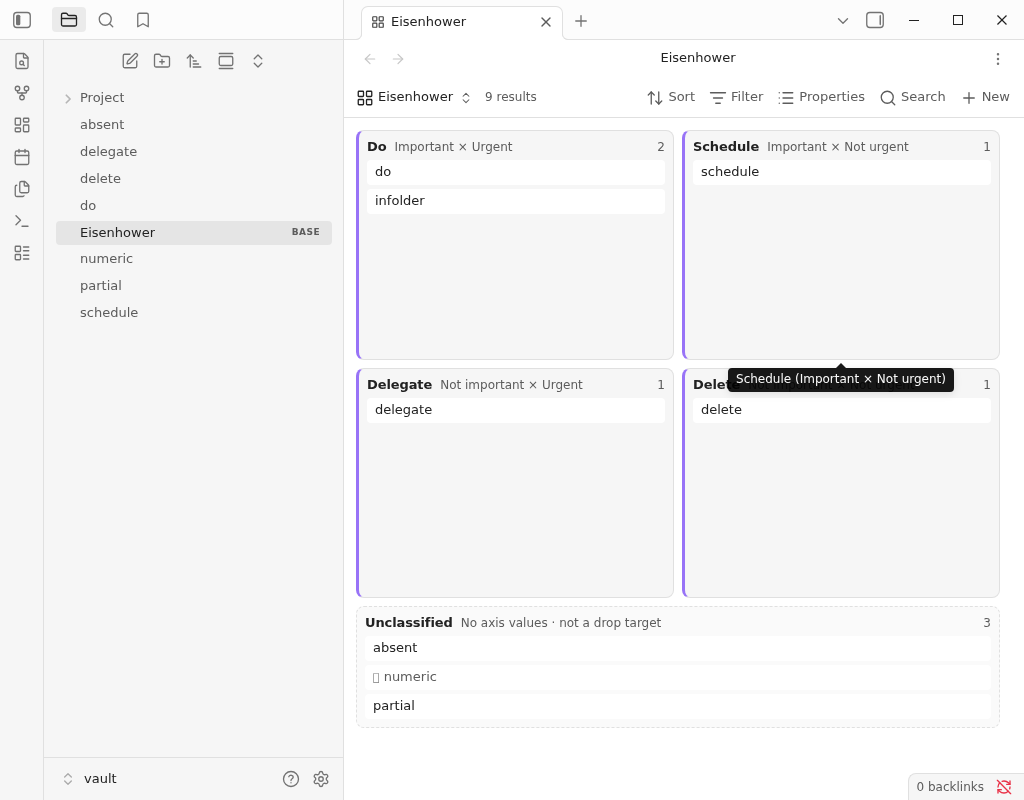
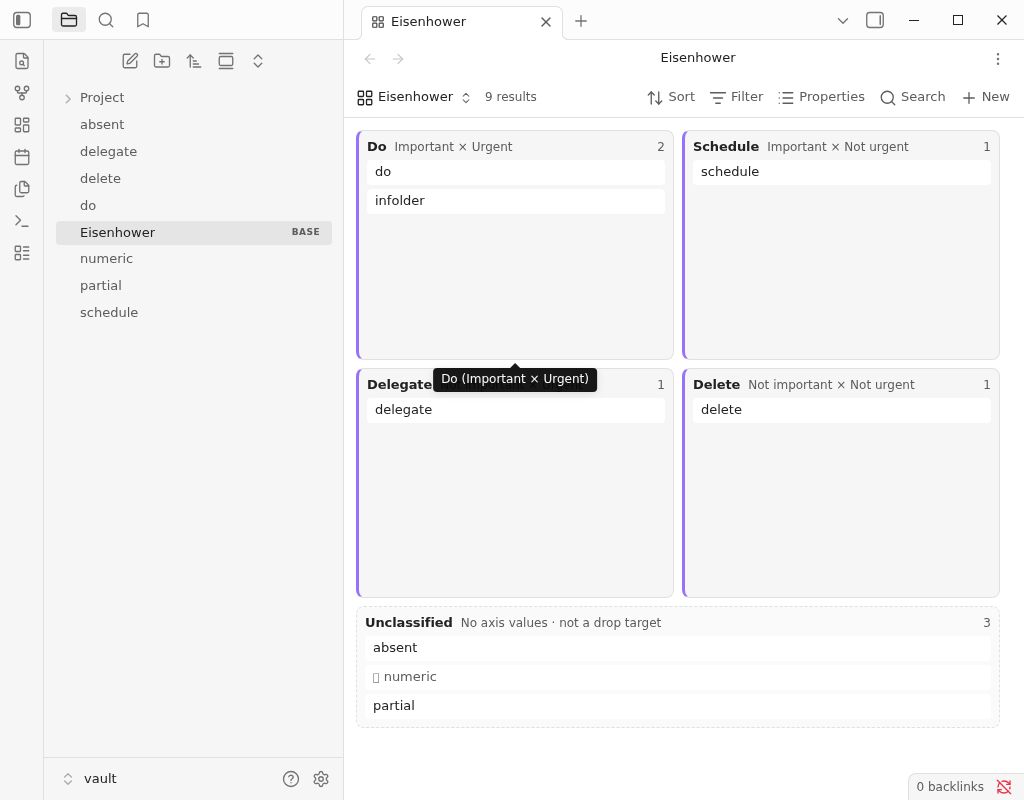
test(e2e): PR レビュー対応 — 偽陽性・ポート衝突・検証記録の是正（19/19 PASS）
PR #48 の多観点レビュー（敵対的検証つき・4観点）で確定した 14 指摘に対応。ハーネスの
PASS の信頼性・再実行安全性・記録の正直さを是正した。プロダクション src は不変（scripts/e2e・
docs のみ）。改善後ハーネスを実機 Obsidian 1.12.7 で再実行し 19/19 PASS を確認。

should:
- run-cdp.js: 「再描画後 Do に居る」チェックが楽観オーバーレイだけで満たされ往復後半（サーバ
  再分類）を検証していなかった。base を開き直した楽観保留なしの新規描画で schedule が Do に居る
  ことを独立にアサート（getValue→classifyQuadrant の往復後半を証明）。
- setup-and-run.sh: CDP ポート衝突を検出せず、9222 を掴む別/残存 Obsidian へ誤接続し**ユーザーの
  実 Vault を操作しうる**危険があった。起動前に占有チェックして中止するガードを追加。
- setup-and-run.sh: set -e 下で node 失敗時に RC 捕捉・案内 echo が死コードだったのを if で捕捉。

nit:
- undo チェックの tautology 解消（移動後=urgent:true の前提＋コマンド成否＋true→false 遷移を assert）。
- 固定 sleep → 条件ポーリング（until）で非決定的失敗を回避。
- FATAL 時に 99-fatal.png を撮影＋browser.close。
- DISPLAY/WAYLAND 未設定の事前 fail・$WORK 非削除の明記。
- README の出力一覧を実装へ更新・移行メモを「完了」へ。
- 検証記録: 対象コミット（be20e6f＋prod=develop）明記、B2 を〜へ（literal 未検証）、C1 の述語表現
  是正＋明示 assert、サマリに部分列と件数整合、A4 にサーバ再分類の独立検証を追記。

Test: 実機 E2E 19/19 PASS（scripts/e2e/setup-and-run.sh）。npm typecheck/lint 緑。
Design: none

Changed region(s): [[0.6875, 0.4375, 0.9375, 0.5], [0.4062, 0.4375, 0.5938, 0.5]]

diff --git a/scripts/e2e/run-cdp.js b/scripts/e2e/run-cdp.js
@@ -3,6 +3,8 @@
 //  (1) セレクタを本実装（.eisenhower-matrix / .eisenhower-quadrant / .eisenhower-note-card）へ
 //  (2) 移動操作をボタン click → dnd-kit の**実ポインタドラッグ**（PopoutPointerSensor 経由）へ
 //  (3) onDataUpdated 自動再発火を plugin.liveViews のインスタンス計測で確認（プラグインは console 出力しない）
+//  (4) 書き戻し後の**サーバ由来 re-classification**を、base を開き直して楽観オーバーレイ無しの新規描画で検証
+//      （楽観移動だけで満たされる偽陽性を避ける・PR#48 レビュー指摘）
 const { chromium } = require("playwright");
 const fs = require("fs");
 const path = require("path");
@@ -11,7 +13,10 @@ const CDP = process.env.CDP || "http://127.0.0.1:9222";
 const VAULT = process.env.VAULT;
 const OUT = process.env.OUT || ".";
 const logs = [];
-const result = { checks: [], dom: null, writeBack: null, undo: null };
+const result = { checks: [], dom: null, writeBack: null, reclassify: null, undo: null };
+let page = null;
+let browser = null;
+
 const rec = (tag, ...a) => {
   const line = `[${tag}] ${a.map((x) => (typeof x === "string" ? x : JSON.stringify(x))).join(" ")}`;
   logs.push(line);
@@ -26,6 +31,17 @@ const dump = () => {
   fs.writeFileSync(path.join(OUT, "result.json"), JSON.stringify(result, null, 2) + "\n");
 };
 const sleep = (ms) => new Promise((r) => setTimeout(r, ms));
+// 条件が真になるまで短間隔ポーリング（固定 sleep の非決定的失敗を避ける）。timeout で最後の値を返す。
+const until = async (fn, { timeout = 8000, interval = 200, label = "" } = {}) => {
+  const t0 = Date.now();
+  for (;;) {
+    let v;
+    try { v = await fn(); } catch (_) { v = undefined; }
+    if (v) return v;
+    if (Date.now() - t0 > timeout) { rec("warn", `until timeout: ${label}`); return v; }
+    await sleep(interval);
+  }
+};
 // frontmatter（"---" 間）を読み取り「key: value」を平坦化して返す（書き戻し検証用）。
 const readFm = (f) => {
   try {
@@ -36,20 +52,44 @@ const readFm = (f) => {
     return `READ_ERR:${e}`;
   }
 };
+const snap = async (name) => {
+  try { await page.screenshot({ path: path.join(OUT, name) }); rec("shot", name); }
+  catch (e) { rec("warn", "screenshot " + name, String(e)); }
+};
+// Do 象限のカード名一覧を DOM から読む。
+const readDoCards = () =>
+  page.evaluate(() => {
+    const doCell = [...document.querySelectorAll(".eisenhower-quadrant")]
+      .find((c) => c.querySelector(".eisenhower-quadrant__title")?.textContent === "Do");
+    return [...(doCell?.querySelectorAll(".eisenhower-note-card") || [])]
+      .map((n) => n.textContent.replace("🔒", "").trim());
+  });
+// base を開き直して（楽観保留の無い）新規描画にし、Do 象限のカードを読む。
+const reopenBaseAndReadDo = async () => {
+  await page.evaluate(() => {
+    for (const l of window.app.workspace.getLeavesOfType?.("bases") || []) l.detach();
+  });
+  await sleep(300);
+  await page.evaluate(async () => {
+    const f = window.app.vault.getAbstractFileByPath("Eisenhower.base");
+    const leaf = window.app.workspace.getLeaf(true);
+    await leaf.openFile(f);
+  });
+  await page.waitForSelector(".eisenhower-matrix__grid", { timeout: 15000 }).catch(() => {});
+  await sleep(400);
+  return readDoCards();
+};
 
 (async () => {
-  const browser = await chromium.connectOverCDP(CDP, { timeout: 30000 });
+  browser = await chromium.connectOverCDP(CDP, { timeout: 30000 });
   rec("harness", "connected over CDP");
   const ctx = browser.contexts()[0];
 
   // window.app.workspace を持つレンダラページ（Obsidian 本体）を探す。
-  let page = null;
   for (let attempt = 0; attempt < 20 && !page; attempt++) {
     for (const p of ctx.pages()) {
       let ok = false;
-      try {
-        ok = await p.evaluate(() => !!(window.app && window.app.workspace));
-      } catch (_) {}
+      try { ok = await p.evaluate(() => !!(window.app && window.app.workspace)); } catch (_) {}
       if (ok) { page = p; break; }
     }
     if (!page) await sleep(1000);
@@ -81,14 +121,12 @@ const readFm = (f) => {
     const steps = {};
     try { if (p.setEnable) { await p.setEnable(true); steps.setEnable = true; } } catch (e) { steps.setEnableErr = String(e); }
     try { steps.enablePlugin = await p.enablePlugin("eisenhower-bases-view").then(() => true).catch((e) => String(e)); } catch (e) { steps.enableErr = String(e); }
-    // 信頼ダイアログが残っていれば「信頼」ボタンを押す（実ユーザー操作の代替）
     const btn = [...document.querySelectorAll(".modal button, .modal .mod-cta")]
       .find((b) => /trust|信頼|enable/i.test(b.textContent || ""));
     if (btn) { btn.click(); steps.trustClicked = btn.textContent; }
     return steps;
   });
   rec("enable", JSON.stringify(enableRes));
-  // プラグインがロードされるまで待つ
   await page.waitForFunction(
     () => !!window.app.plugins.plugins["eisenhower-bases-view"],
     { timeout: 15000 },
@@ -115,7 +153,6 @@ const readFm = (f) => {
   let rendered = false;
   try {
     await page.waitForSelector(".eisenhower-matrix", { timeout: 25000 });
-    // loading シェルではなく ready（グリッド）になるまで待つ
     await page.waitForSelector(".eisenhower-matrix__grid", { timeout: 15000 });
     rendered = true;
   } catch (e) {
@@ -131,7 +168,7 @@ const readFm = (f) => {
 
   // 4) 配置スナップショット（象限別カード + locked + 件数）
   const dom = await page.evaluate(() => {
-    const cells = [...document.querySelectorAll(".eisenhower-quadrant")].map((c) => ({
+    return [...document.querySelectorAll(".eisenhower-quadrant")].map((c) => ({
       title: c.querySelector(".eisenhower-quadrant__title")?.textContent ?? null,
       count: c.querySelector(".eisenhower-quadrant__count")?.textContent ?? null,
       unclassified: c.classList.contains("eisenhower-quadrant--unclassified"),
@@ -141,7 +178,6 @@ const readFm = (f) => {
         draggable: n.getAttribute("aria-roledescription") === "draggable",
       })),
     }));
-    return cells;
   });
   result.dom = dom;
   rec("dom", JSON.stringify(dom));
@@ -149,7 +185,6 @@ const readFm = (f) => {
   const titles = (t) => byTitle(t).cards.map((x) => x.title).sort();
   const unc = dom.find((c) => c.unclassified) || { cards: [] };
   const uncTitles = unc.cards.map((x) => x.title).sort();
-  // do.md（ルート）と Project/infolder.md（フォルダ配下）はどちらも urgent:true/important:true → Do
   check("Do 象限 = [do, infolder]（フォルダ配下ノートも正配置）", JSON.stringify(titles("Do")) === JSON.stringify(["do", "infolder"]), titles("Do"));
   check("Schedule 象限 = [schedule]", JSON.stringify(titles("Schedule")) === JSON.stringify(["schedule"]), titles("Schedule"));
   check("Delegate 象限 = [delegate]", JSON.stringify(titles("Delegate")) === JSON.stringify(["delegate"]), titles("Delegate"));
@@ -159,10 +194,13 @@ const readFm = (f) => {
   check("非 boolean 軸カード numeric は locked（ドラッグ不可）", numeric && numeric.locked && !numeric.draggable, numeric);
   const absent = unc.cards.find((x) => x.title === "absent");
   check("軸欠損カード absent は draggable（locked でない）", absent && !absent.locked && absent.draggable, absent);
+  // .base 自己エントリ（Eisenhower）がカード化されていないこと（非 md 除外の証跡＝dom 由来）
+  const allTitles = dom.flatMap((c) => c.cards.map((x) => x.title));
+  check("`.base` 自己エントリ（Eisenhower）がカード化されない（非 md 除外）", !allTitles.includes("Eisenhower"), allTitles);
   await snap("01-initial.png");
 
   // 5) onDataUpdated 自動再発火の計測をインストルメント（plugin.liveViews の各ビュー）
-  await page.evaluate(() => {
+  const wrapped = await page.evaluate(() => {
     window.__eisenDU = 0;
     const p = window.app.plugins.plugins["eisenhower-bases-view"];
     const views = p && p.liveViews ? [...p.liveViews] : [];
@@ -174,6 +212,8 @@ const readFm = (f) => {
     }
     return views.length;
   });
+  // liveViews が空だと onDataUpdated 計測が無効化され「未計測なのに PASS」になるため、計測対象があることを確かめる。
+  check("onDataUpdated 計測対象ビューが存在（liveViews 非空＝計測有効）", wrapped > 0, { wrappedViews: wrapped });
 
   // 6) 書き戻し（実ポインタドラッグ）: schedule カード → Do 象限
   result.writeBack = { before: readFm("schedule.md") };
@@ -195,23 +235,28 @@ const readFm = (f) => {
   } else {
     rec("warn", "boundingBox null", { srcBox, dstBox });
   }
-  await sleep(2500);
+  // 固定 sleep をやめ、ファイルが urgent:true になるまで + onDataUpdated 発火までポーリング（#8）
+  await until(() => /urgent:\s*true/.test(readFm("schedule.md")), { timeout: 8000, label: "schedule urgent:true" });
   result.writeBack.after = readFm("schedule.md");
-  result.writeBack.onDataUpdatedCount = await page.evaluate(() => window.__eisenDU);
-  rec("writeback", "schedule.md after:", result.writeBack.after);
+  result.writeBack.onDataUpdatedCount =
+    (await until(async () => { const n = await page.evaluate(() => window.__eisenDU); return n > 0 ? n : 0; }, { timeout: 8000, label: "onDataUpdated>0" })) || 0;
+  rec("writeback", "schedule.md after:", result.writeBack.after, "onDataUpdated:", result.writeBack.onDataUpdatedCount);
   const wroteDo = /urgent:\s*true/.test(result.writeBack.after) && /important:\s*true/.test(result.writeBack.after);
-  check("ドラッグ書き戻し: schedule.md が urgent:true/important:true になった（processFrontMatter）", wroteDo, result.writeBack.after);
-  check("onDataUpdated が書き戻し後に自動再発火した（手動再描画なし）", result.writeBack.onDataUpdatedCount > 0, result.writeBack.onDataUpdatedCount);
-  // 再描画後、schedule カードが Do 象限へ移動していること
-  const afterDom = await page.evaluate(() => {
-    const doCell = [...document.querySelectorAll(".eisenhower-quadrant")].find((c) => c.querySelector(".eisenhower-quadrant__title")?.textContent === "Do");
-    return [...(doCell?.querySelectorAll(".eisenhower-note-card") || [])].map((n) => n.textContent.replace("🔒","").trim());
-  });
-  check("再描画後、schedule カードが Do 象限に配置される", afterDom.includes("schedule"), afterDom);
+  check("ドラッグ書き戻し: schedule.md が urgent:true/important:true（processFrontMatter）", wroteDo, result.writeBack.after);
+  check("onDataUpdated が書き戻し後に自動再発火（手動再描画なし）", result.writeBack.onDataUpdatedCount > 0, result.writeBack.onDataUpdatedCount);
   await snap("02-after-writeback.png");
 
-  // 7) undo（コマンド）: schedule.md が元（urgent:false/important:true）へ戻る
+  // 6.5) サーバ由来 re-classification（往復後半）: base を開き直して**楽観保留の無い**新規描画にし、
+  //      schedule が Do に居ることを確認する。これで「楽観オーバーレイだけで PASS」する偽陽性を排除し、
+  //      getValue が新しい frontmatter を読み classifyQuadrant で Do に置いた往復後半を独立に証明する（PR#48 指摘）。
+  const reclass = await reopenBaseAndReadDo();
+  result.reclassify = reclass;
+  rec("reclassify", "Do cards after reopen (no pending):", JSON.stringify(reclass));
+  check("書き戻し後のサーバ再分類: 再オープン（楽観保留なし）で schedule が Do 象限に配置される（getValue→再分類）", reclass.includes("schedule"), reclass);
+
+  // 7) undo（コマンド）: 前提（移動後=urgent:true）とコマンド成否をアサートしてから true→false 遷移を検証（#2/#9）
   result.undo = { before: readFm("schedule.md") };
+  check("undo 前提: 書き戻しで schedule.md が urgent:true（移動後状態）", /urgent:\s*true/.test(result.undo.before), result.undo.before);
   const undoRes = await page.evaluate(() => {
     const id = "eisenhower-bases-view:undo-last-move";
     const cmd = window.app.commands.commands[id];
@@ -220,11 +265,14 @@ const readFm = (f) => {
     return { ok: true };
   });
   rec("undo", JSON.stringify(undoRes));
-  await sleep(2000);
+  check("undo コマンドが存在し実行された", undoRes.ok === true, undoRes);
+  await until(() => /urgent:\s*false/.test(readFm("schedule.md")), { timeout: 8000, label: "undo revert" });
   result.undo.after = readFm("schedule.md");
   rec("undo", "schedule.md after undo:", result.undo.after);
-  const revertedOk = /urgent:\s*false/.test(result.undo.after) && /important:\s*true/.test(result.undo.after);
-  check("undo コマンドで schedule.md が元（urgent:false/important:true）へ復元", revertedOk, result.undo.after);
+  const revertedOk =
+    /urgent:\s*true/.test(result.undo.before) && // 移動後（前提）
+    /urgent:\s*false/.test(result.undo.after) && /important:\s*true/.test(result.undo.after); // 元へ遷移
+  check("undo コマンドで schedule.md が urgent:true→false へ遷移復元", revertedOk, { before: result.undo.before, after: result.undo.after });
   await snap("03-after-undo.png");
 
   const passed = result.checks.filter((c) => c.pass).length;
@@ -232,13 +280,11 @@ const readFm = (f) => {
   dump();
   await browser.close(); // CDP: 切断のみ（obsidian は生存＝シェルの trap が kill）
   process.exit(result.checks.every((c) => c.pass) ? 0 : 1);
-
-  async function snap(name) {
-    try { await page.screenshot({ path: path.join(OUT, name) }); rec("shot", name); }
-    catch (e) { rec("warn", "screenshot " + name, String(e)); }
-  }
-})().catch((e) => {
+})().catch(async (e) => {
   rec("FATAL", String(e));
+  // 中途失敗の視覚的証拠を残す（最も知りたい状態のスクショ）＋切断（#7）。
+  try { if (page) await page.screenshot({ path: path.join(OUT, "99-fatal.png") }); rec("shot", "99-fatal.png"); } catch (_) {}
+  try { if (browser) await browser.close(); } catch (_) {}
   dump();
   process.exit(1);
 });

diff --git a/scripts/e2e/README.md b/scripts/e2e/README.md
@@ -26,8 +26,14 @@ scripts/e2e/setup-and-run.sh
 
 出力（既定 `$WORK/out`、`WORK` 環境変数で変更可）:
 
-- `console.log` — レンダラの console（各 entry の Value 表現・`onDataUpdated` 再発火回数 等）
-- `spike.png` — 検証時点のスクリーンショット
+- `console.log` — レンダラの console＋各チェックの PASS/FAIL ログ
+- `result.json` — 構造化結果（`checks[]`／`dom`／`writeBack`／`reclassify`／`undo`）
+- `01-initial.png` — 初期描画（4 象限＋未分類・ロックカード）
+- `02-after-writeback.png` — ドラッグ書き戻し後（移動＋Undo トースト）
+- `03-after-undo.png` — undo 後
+- `matrix.png` — ビュー未描画で失敗したときのスクショ／`99-fatal.png` — 例外（FATAL）時のスクショ
+
+> `$WORK`（既定は `mktemp` の一時ディレクトリ）は Obsidian 展開＋Vault で数百MB規模になるが**自動削除しない**。不要になったら手動で削除する。
 
 ## 環境変数
 
@@ -39,14 +45,18 @@ scripts/e2e/setup-and-run.sh
 | `WORK` | 一時ディレクトリ | 作業（Obsidian 展開・Vault・出力）の置き場 |
 | `CDP_PORT` | `9222` | Obsidian のリモートデバッグポート |
 
-## 本実装（F1〜F6）への移行メモ
+## 本実装（F1〜F6）への移行（完了済み）
 
-スパイク時点では `run-cdp.js` がスパイク専用ビュー（`.eisenhower-spike` セレクタ・`eisenhower-spike`
-ビュー型・移動ボタン）を前提にしている。本実装のビュー（dnd-kit のドラッグ・別ビュー型 ID）に合わせて、
-次の 2 箇所を更新する:
+スパイク版（`.eisenhower-spike` セレクタ・`eisenhower-spike` ビュー型・移動ボタン）から本実装へ**移行済み**。
+現行ハーネスは次を検証する（`run-cdp.js`）:
 
-1. `setup-and-run.sh` のテスト Vault `.base` の `type:`（= `VIEW_TYPE`）
-2. `run-cdp.js` の DOM セレクタ（`.eisenhower-spike*`）と操作（ボタン click → dnd-kit のドラッグ操作）
+1. `setup-and-run.sh` のテスト Vault `.base` は `type: eisenhower-matrix`（既定 `VIEW_TYPE`）。フィクスチャは
+   4 象限＋未分類（absent/partial）＋非 boolean（numeric＝locked）＋フォルダ配下（Project/infolder）を網羅。
+2. `run-cdp.js` は本実装セレクタ（`.eisenhower-matrix` / `.eisenhower-quadrant` / `.eisenhower-note-card`）で
+   配置・ロックを確認し、**dnd-kit の実ポインタドラッグ**で書き戻し → `processFrontMatter`（ファイル反映）→
+   `onDataUpdated` 自動再発火（`plugin.liveViews` のインスタンス計測）→ **base を開き直した楽観保留なしの
+   新規描画でサーバ再分類**（往復後半）→ **undo コマンド**（前提と成否をアサートしてから遷移復元）を検証する。
+   初回オープンの信頼ダイアログ（restricted mode）は `plugins.setEnable(true)`＋`enablePlugin` で解除する。
 
 ## スパイクで確定した API（参考）
 